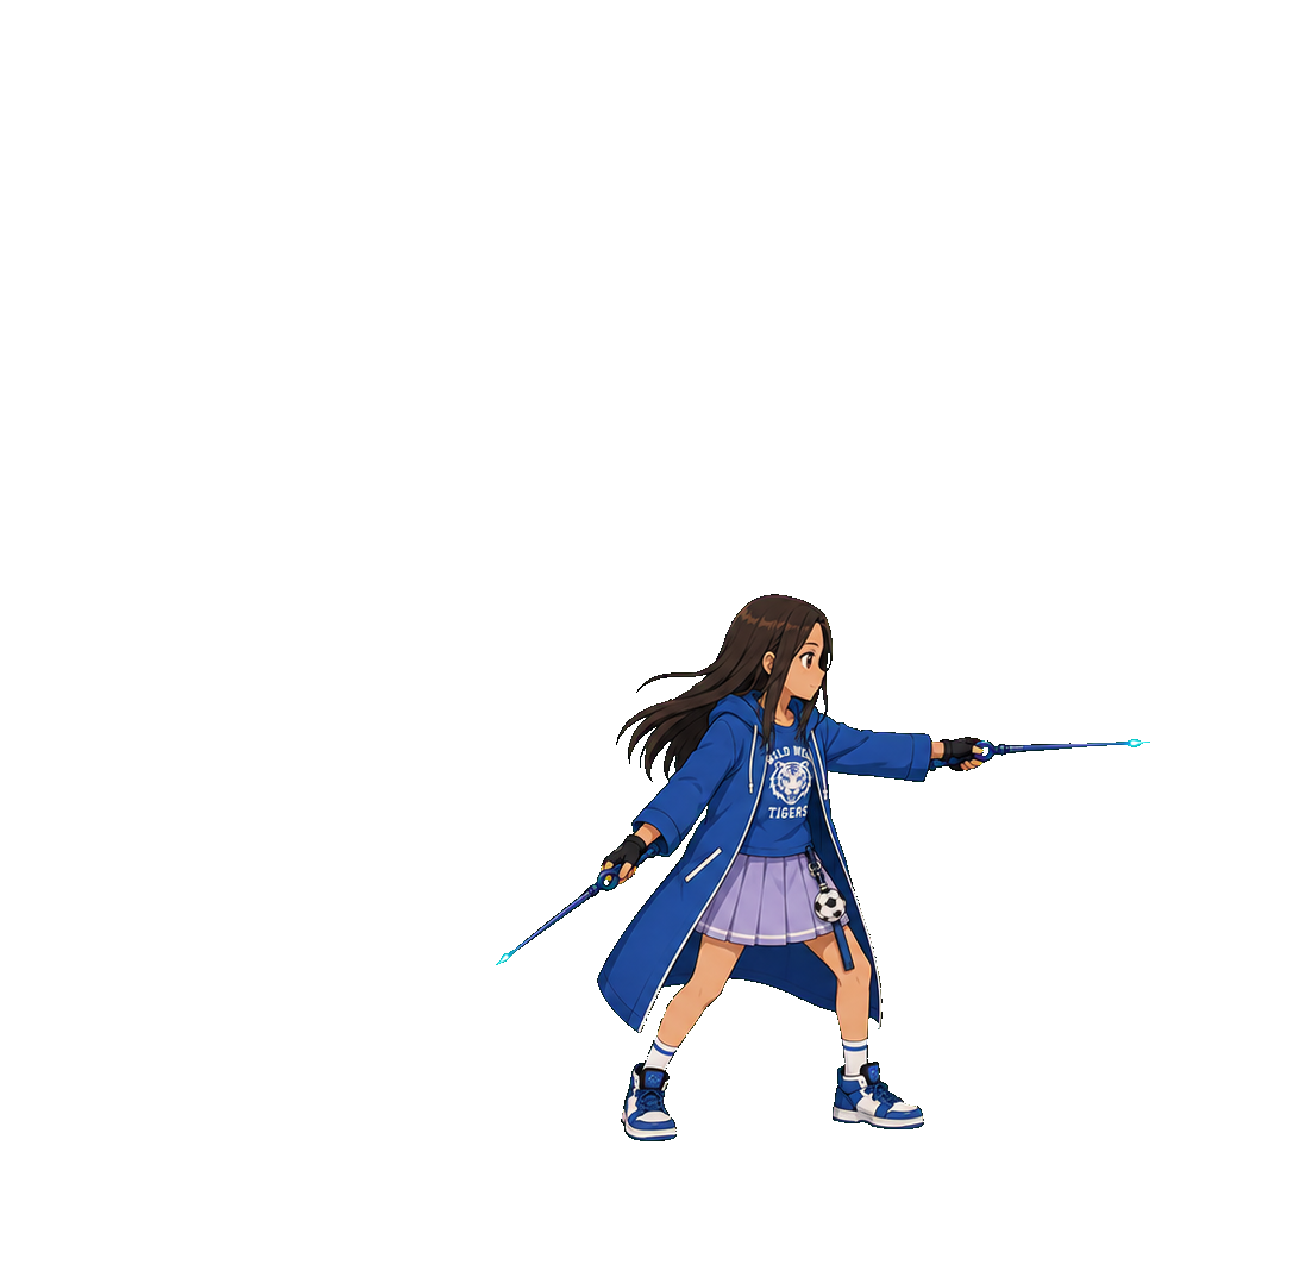
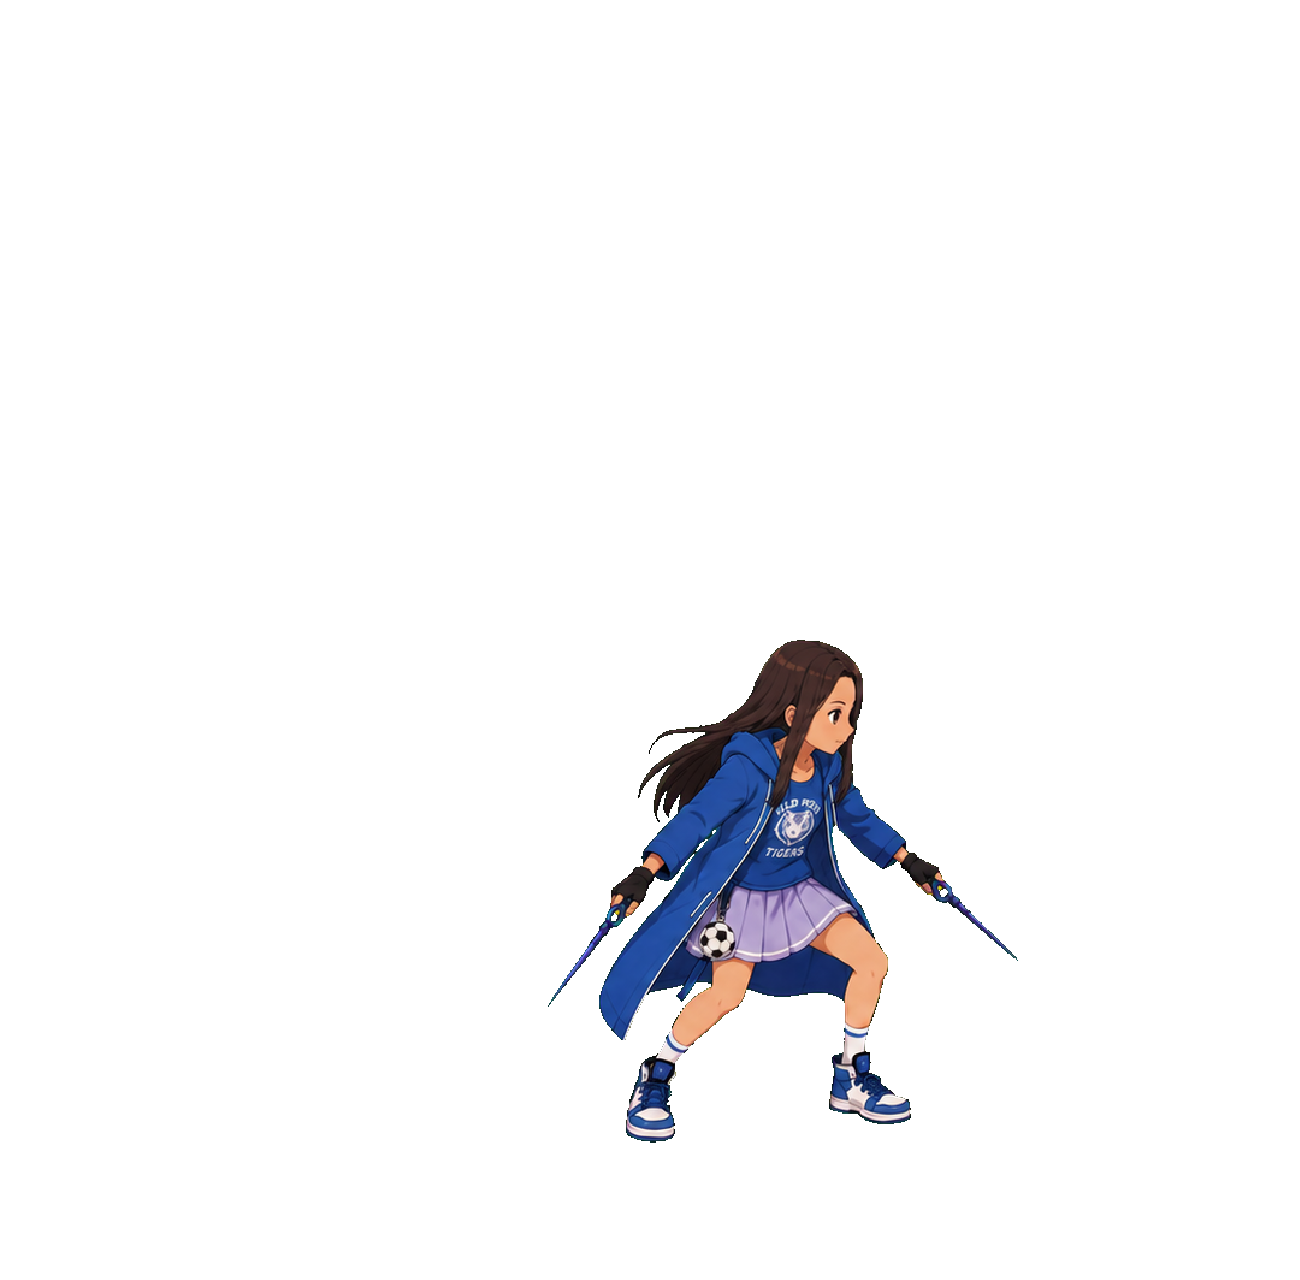
Fe: wall_splat + pose nuevos y humo de inferno bien ubicado
- wall_splat (estrellon contra pared -> cae de bruces): hoja regenerada con
  proporciones esbeltas; procesador con soporte flipH (espejar) y escala
  calibrada al tamano de hit_fly. Frames en favi/wall_splat/.
- pose idle: regenerada como GUARDIA BAJA bladed (agujas abajo, felina),
  auto-escala por cabeza (misma estatura que walk). Reemplaza la del brazo
  estirado apuntando al frente.
- Inferno (start_burn): el HUMO se ubica/achica segun el cuerpo (base_scale)
  en vez de offsets fijos de DAM -> en Fe ya no flota sobre la cabeza, ahora
  sale sobre su torso. Duracion del humo 1.3s -> 3s: persiste hasta que se
  levanta humeando (como DAM). DAM queda identico (calibrado a su escala).
- Guia Fe: bloque 13c con nota de PROPORCIONES; bloque 1 (pose) reescrito.

Claude-Session: https://claude.ai/code/session_018bBdMRRanuJjytr5DkoguU

Changed region(s): [[0.4, 0.4375, 0.8308, 0.9062], [0.7385, 0.7188, 0.7692, 0.75]]

diff --git a/GUIA-SPRITES-FAVI.md b/GUIA-SPRITES-FAVI.md
@@ -85,11 +85,17 @@ sueltos por masa corporal para que encajen).
 
 ### Básicas (empezar por estas 4)
 
-1. **`pose-sheet.png`** — 4 frames. Postura de guardia de esgrima DUAL: una
-   aguja al frente (mano adelantada) apuntando al rival, la otra recogida junto
-   a la cadera lista. Respiración sutil: el pecho sube y baja, el brillo azul de
-   las puntas varía apenas de intensidad. El loop debe cerrar (frame 4 conecta
-   con frame 1).
+1. **`pose-sheet.png`** — 4 frames (2 filas de 2). **Guardia BAJA de asesina
+   (bladed, ágil)**: cuerpo DE COSTADO / tres cuartos hacia la derecha (hombro
+   adelantado), **rodillas FLEXIONADAS y peso bajo y centrado**, lista para
+   lanzarse (postura felina). La aguja de la mano **ADELANTADA** se sostiene
+   **BAJA y en DIAGONAL** (NO rígida apuntando al frente); la aguja de la mano de
+   **ATRÁS** en **AGARRE INVERTIDO** (reverse-grip, punta hacia abajo/atrás) junto
+   a la cadera. Mirada afilada al frente. Pelo y gabardina con leve movimiento.
+   Respiración sutil: el torso sube y baja APENAS, las agujas oscilan un poquito,
+   el brillo azul de las puntas varía apenas. Los pies NO se mueven. El loop debe
+   cerrar (frame 4 conecta con frame 1). **CUERPO COMPLETO dentro del cuadro: los
+   pies/tenis ENTEROS, con margen debajo — NUNCA recortados por el borde.**
 
 2. **`walk-sheet.png`** — 8 frames en 2 filas de 4. Ciclo de caminata de
    COMBATE: el torso casi quieto en guardia, las DOS agujas siempre listas (una
@@ -297,8 +303,20 @@ sueltos por masa corporal para que encajen).
     (fila arriba = f1 f2 f3 izq→der; fila abajo = f4 f5 f6 izq→der). Fondo VERDE
     puro #00FF00. Favi SIEMPRE de **perfil mirando a la DERECHA**. **NO dibujes:**
     pared, piso, líneas de velocidad, polvo, chispas ni ningún efecto — SOLO la
-    niña flotando sobre el verde (la pared y el golpe los pone el motor). Los 6
-    frames al **MISMO tamaño de personaje** (misma escala que las demás hojas).
+    niña flotando sobre el verde (la pared y el golpe los pone el motor).
+
+    ⚠ **PROPORCIONES (LO MÁS IMPORTANTE — antes salió MAL):** mismas proporciones
+    que sus otras hojas (caminar/vuelo). Cuerpo **ESBELTO y ÁGIL de asesina
+    adolescente**, **piernas y brazos LARGOS**, torso estilizado, **cabeza
+    PROPORCIONADA y más bien pequeña respecto al cuerpo**. **NO la dibujes con
+    proporciones de nena chiquita / bebé / chibi** (cabeza grande, cuerpo corto y
+    rechoncho, piernas cortas): la silueta debe verse **ALTA y ESTILIZADA**, igual
+    de madura que en las demás hojas.
+
+    **TAMAÑO:** el personaje debe **LLENAR la celda** (misma escala que la hoja de
+    vuelo `hit_fly`), NO salir pequeña con mucho verde alrededor. La **MISMA
+    estatura y proporciones en los 6 frames** — solo cambia la pose, nunca el
+    tamaño ni la contextura.
 
     ESTADO: Favi está **NOQUEADA en el aire**, cuerpo de **muñeca de trapo** sin
     control, ojos cerrados/apretados, cara floja, pelo y gabardina al viento. NADA
@@ -319,7 +337,8 @@ sueltos por masa corporal para que encajen).
       invisible, el cuerpo empezando a comprimirse, rodillas subiendo por el impacto.
     - **f3 — IMPACTO (aplastada):** cuerpo COMPRIMIDO contra la pared (vertical,
       apretado), cabeza hundida entre los hombros, todo el cuerpo en su punto más
-      compacto — el momento del golpe.
+      compacto — el momento del golpe (**pero SIN volverse cabezona**: la cabeza
+      se hunde entre los hombros, no crece).
     - **f4 — REBOTE:** se despega de la pared, todavía casi vertical pero la cabeza
       cae hacia ADELANTE-abajo, el cuerpo empieza a volcarse boca abajo.
     - **f5 — VOLCANDO:** cuerpo en diagonal cayendo de bruces, cabeza y torso
